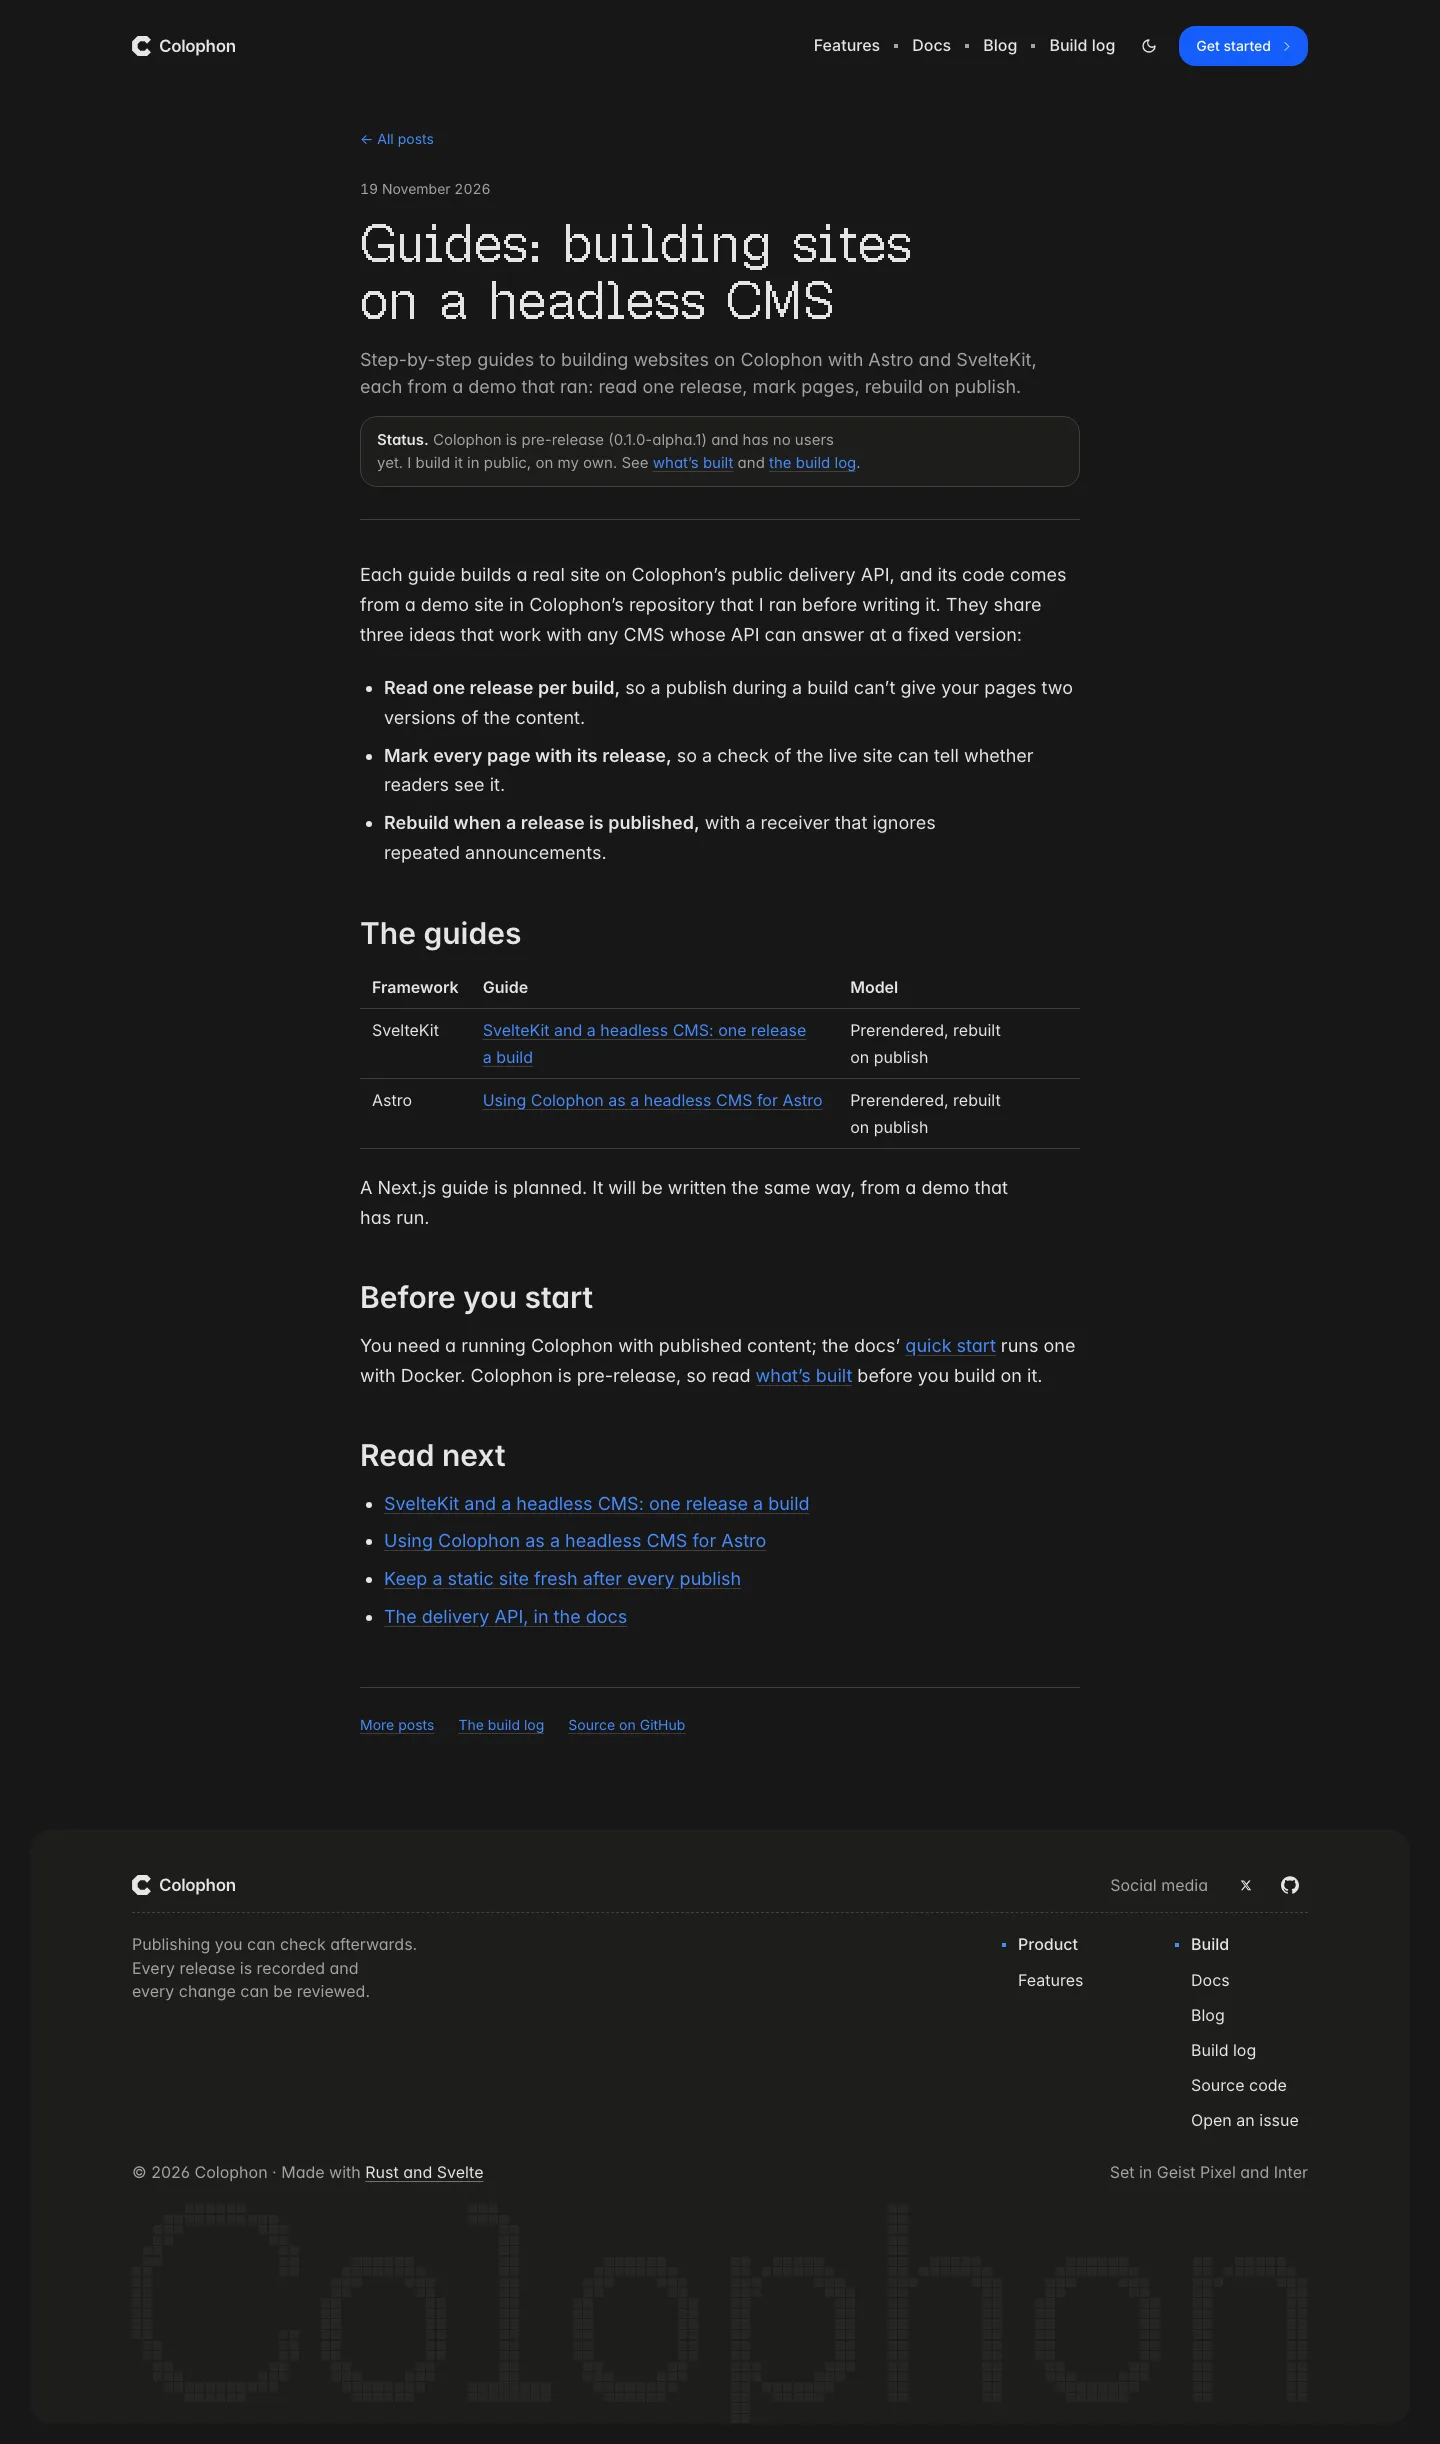
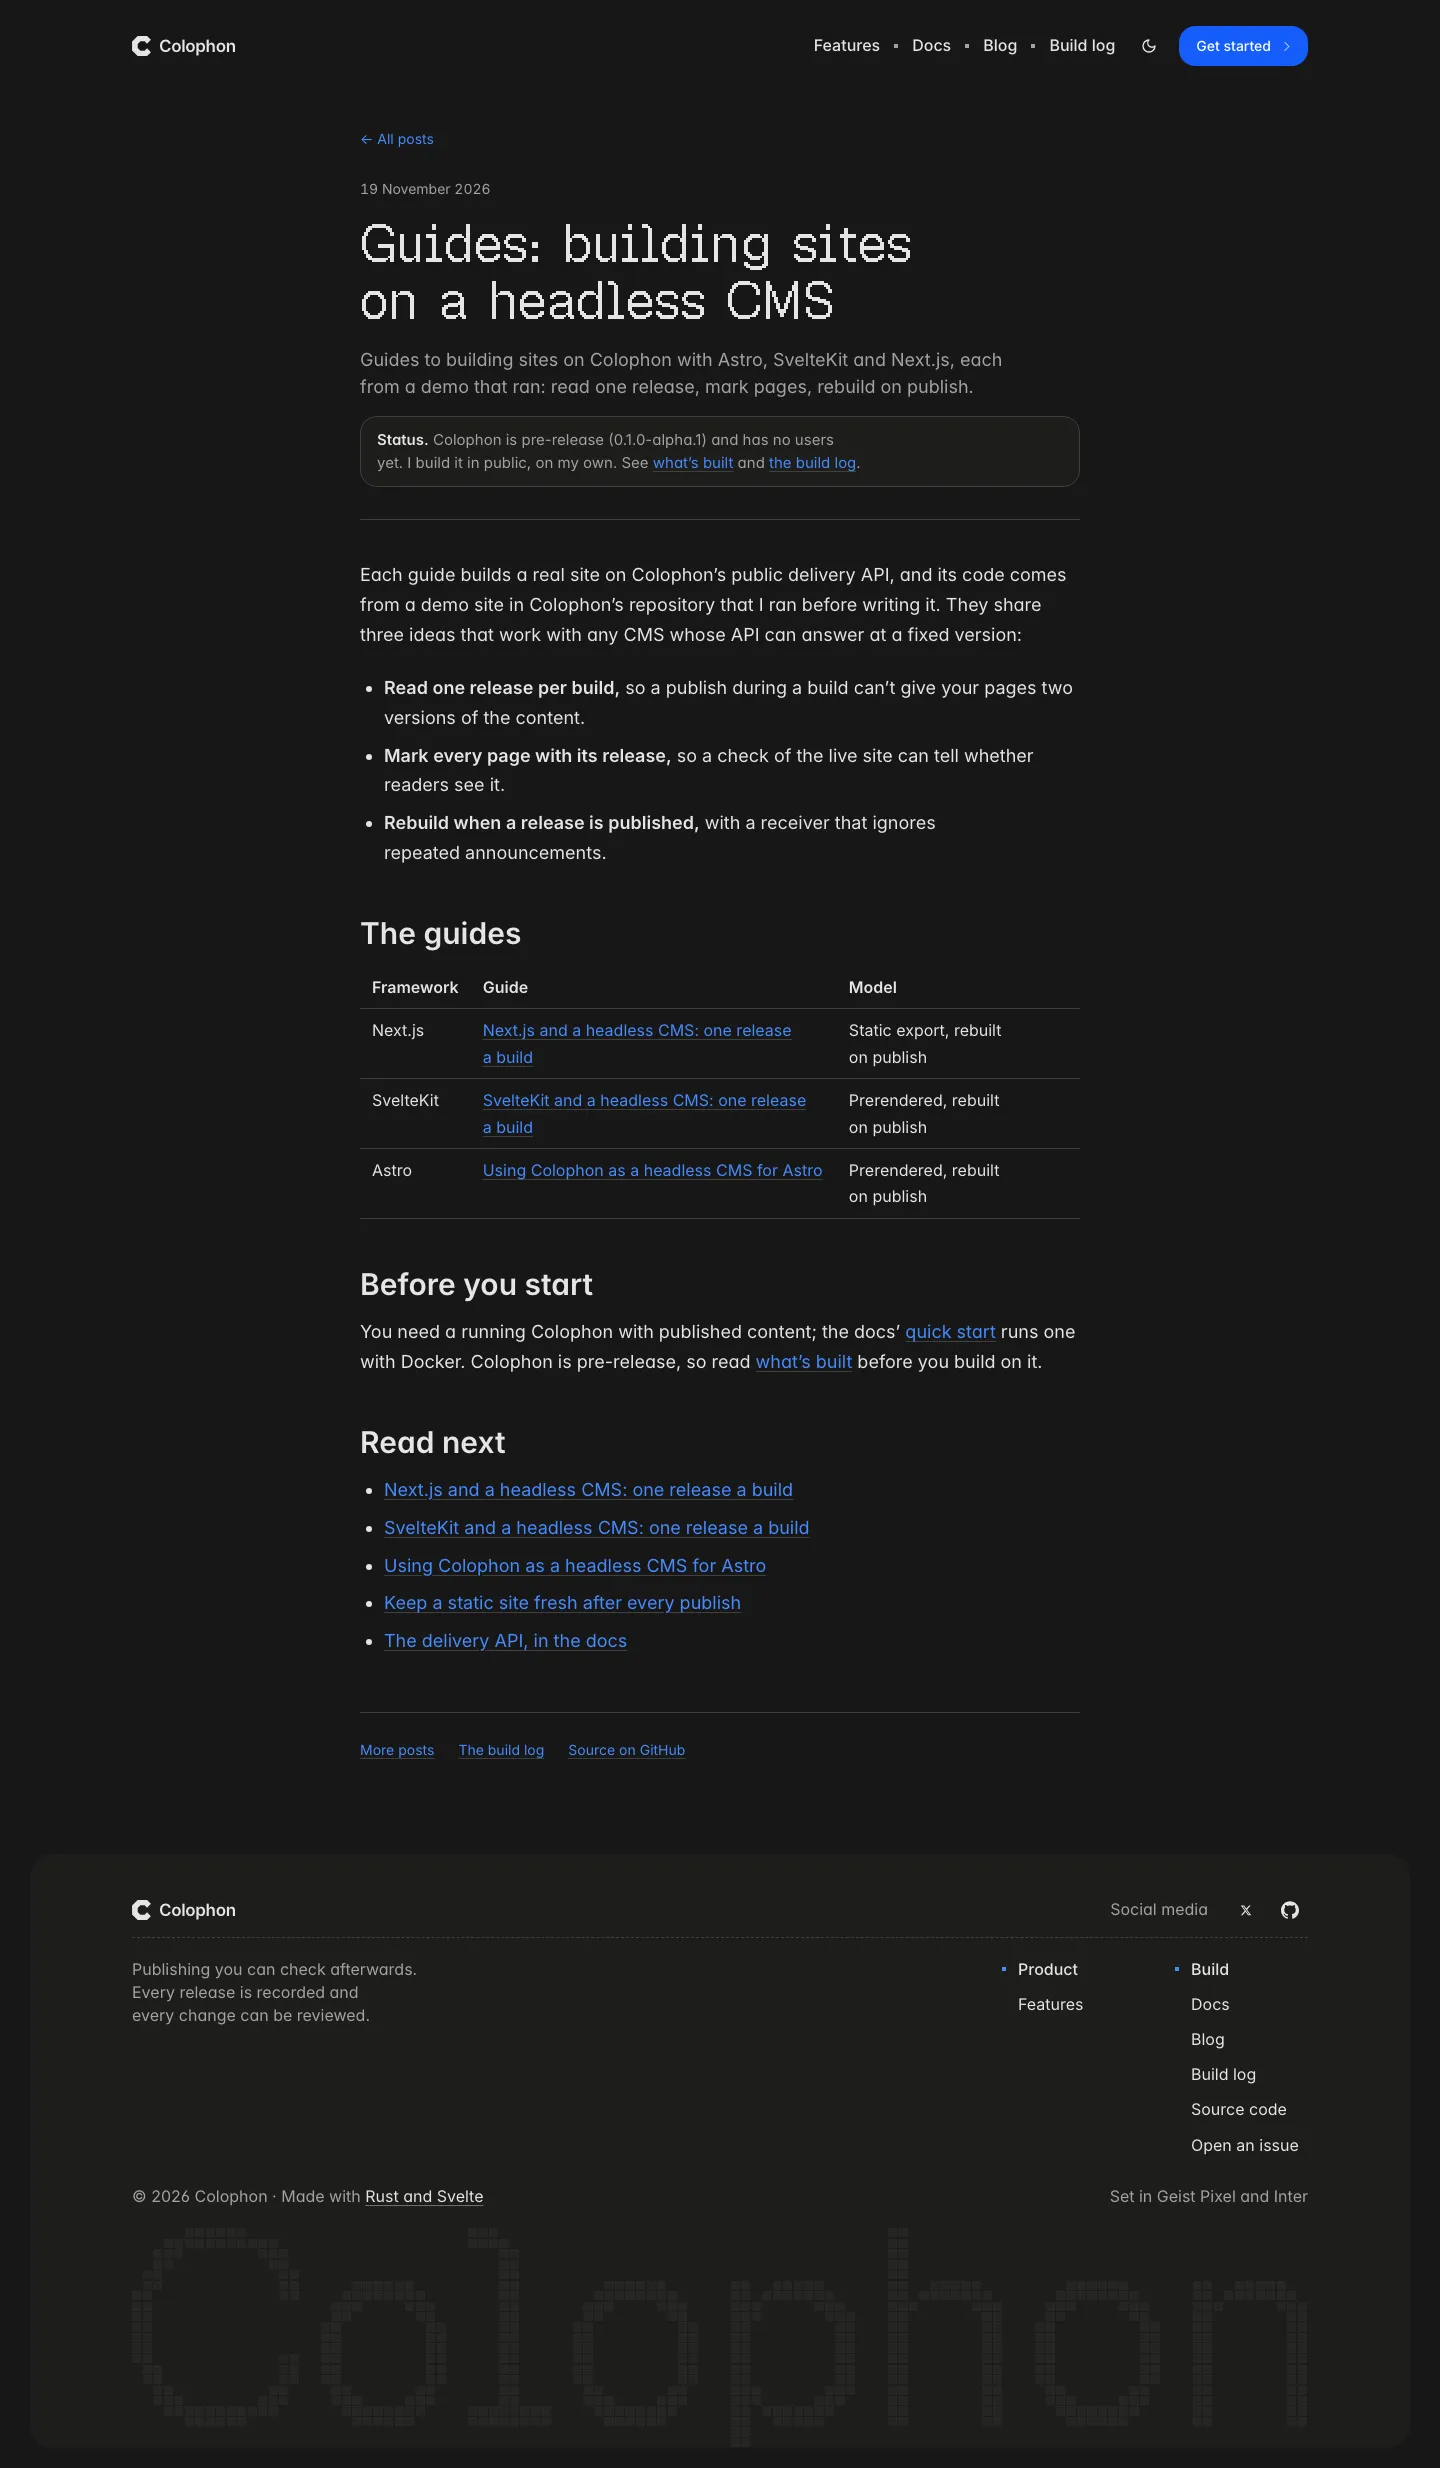
Guides: Next.js and a headless CMS, from the D-220a demo; the hub lists all three frameworks
- /guides/nextjs-headless-cms/: pin one release before `next build` so all of Next's build workers read it,
  refuse an answer from any other release, mark every page through Next's metadata, rebuild on publish. Every
  code block is quoted from colophon-cms apps/sites/nextjs; the run's numbers (5 workers, 13 pages marked 1,
  then 2 after a publish) are from 19 November 2026. Says what isn't covered: revalidation, rich text.
- /guides/ lists Next.js, SvelteKit and Astro; the Next.js guide is linked from the SvelteKit guide and the
  static-site use case.
- Depends on colophon-cms D-220 and D-220a reaching main (the guides link to the demos' source there).

diff --git a/src/content/pages/nextjs-headless-cms.md b/src/content/pages/nextjs-headless-cms.md
@@ -1,0 +1,162 @@
+---
+kind: guide
+title: "Next.js and a headless CMS: one release a build"
+description: "Statically export a Next.js site from a headless CMS without mixing two versions of your content across build workers: pin a release before the build."
+targetQuery: "next.js headless cms static export"
+pubDate: 2026-11-19
+status: "The code below is from the Next.js demo site in Colophon's repository, run against Colophon on 19 November 2026."
+related:
+  - href: /guides/
+    text: "Guides: building sites on a headless CMS"
+  - href: /guides/sveltekit-headless-cms/
+    text: "SvelteKit and a headless CMS: one release a build"
+  - href: /use-cases/static-site-fresh-after-publish/
+    text: "Keep a static site fresh after every publish"
+  - href: /blog/website-not-updating-after-publish/
+    text: "Why your site shows old content after publishing"
+  - href: https://docs.colophon.404human.dev/api/delivery/
+    text: "The delivery API, in the docs"
+faq:
+  - q: "Why can't I just remember the release in a module variable?"
+    a: "Because Next.js renders pages in several worker processes, and each has its own memory. In the run, the build used 5 workers. A release learned in one isn't seen by the others, so a publish during the build could give different workers different releases. A file written once before the build is read by all of them."
+  - q: "Does this work with on-demand revalidation instead of a static export?"
+    a: "The reads work the same way: learn a release, read every query of that render at it. This guide covers the static export, rebuilt on publish; it doesn't cover revalidation, which depends on your host."
+  - q: "How do I render rich text?"
+    a: "Colophon stores rich text as validated JSON, not HTML, and its renderer isn't published to npm yet. The demo leaves the rich-text field out; outside the repository you walk the JSON yourself or render only the fields you need."
+---
+
+A Next.js static export builds every page ahead of time. If someone publishes while that build runs, some pages
+get the old content and some the new, and the site you deploy is a version that never existed. Next.js makes this
+easier to hit than most, because it renders pages in several worker processes at once. This guide builds a small
+recipe site where all of those workers read the same release, every page says which release it shows, and a
+publish triggers the next build.
+
+The code is from the Next.js demo site in Colophon's repository
+([`apps/sites/nextjs`](https://github.com/akira-shirase-oss/colophon-cms/tree/main/apps/sites/nextjs)), run
+against a Colophon on 19 November 2026. The SvelteKit version of the same idea is in
+[SvelteKit and a headless CMS](/guides/sveltekit-headless-cms/); this page focuses on what Next.js changes.
+
+## What you need
+
+- A Colophon with published content. The [quick start](https://docs.colophon.404human.dev/quick-start/) runs one
+  with Docker. You need its address, your project's id and a collection; here the collection is `recipes`.
+- Next.js with `output: 'export'`, so every page is written as a file at build time.
+
+Every answer from Colophon's public delivery API names its release in the `Colophon-Generation` header, and
+`?generation=N` asks for the content exactly as release N published it. The SvelteKit guide shows both answers,
+from the same run.
+
+## Step 1: pin the release before `next build`
+
+The build runs a small script first. It asks for the newest release once and writes it to a file every worker can
+read (`scripts/pin-release.mjs`, abridged to the part that pins):
+
+```js
+const site = connection();
+if (site === null) {
+	console.log('pin-release: nothing seeded; building the "seed first" page');
+} else {
+	const url = `${site.api}/content/v1/${site.project}/${site.environment}/recipes?limit=1`;
+	const response = await fetch(url, { headers: { accept: 'application/json' }, signal: AbortSignal.timeout(10_000) });
+	if (!response.ok) throw new Error(`GET ${new URL(url).pathname}: HTTP ${response.status}`);
+	const generation = Number(response.headers.get('colophon-generation'));
+	if (!Number.isInteger(generation) || generation < 1) throw new Error('the delivery API named no release');
+	writeFileSync(out, JSON.stringify({ site, generation }) + '\n');
+	console.log(`pin-release: this build reads release ${generation}`);
+}
+```
+
+`connection()` reads your Colophon's address and project from the environment. The package script runs it before
+the build:
+
+```json
+"build": "node scripts/pin-release.mjs && next build && node scripts/place-output.mjs"
+```
+
+In the run, the output read `pin-release: this build reads release 1`, then Next reported
+`Generating static pages using 5 workers`.
+
+## Step 2: every worker reads the pinned release
+
+`lib/colophon.ts` reads the file. Every worker gets the same answer:
+
+```ts
+/** The release this build reads, as scripts/pin-release.mjs wrote it, or null when nothing is seeded. */
+export function buildRelease(): { site: Site; generation: number } | null {
+	try {
+		return JSON.parse(readFileSync(join(process.cwd(), '.release.json'), 'utf8'));
+	} catch {
+		return null;
+	}
+}
+```
+
+Every read then asks for that release, follows the cursor, and refuses an answer from any other release, exactly
+as in the SvelteKit guide:
+
+```ts
+const answered = Number(response.headers.get('colophon-generation'));
+if (answered !== generation) throw new Error(`asked for release ${generation}, got ${answered}`);
+```
+
+## Step 3: one page per entry, at that release
+
+`app/recipes/[slug]/page.tsx` tells Next which pages to export:
+
+```tsx
+// Only the recipes published at the build's release exist; any other path is a 404.
+export const dynamicParams = false;
+
+// Which recipe pages to export: one per published recipe, at the build's release. Before seeding there are none,
+// and a static export needs at least one, so the build makes a single placeholder page.
+export async function generateStaticParams() {
+	const pinned = buildRelease();
+	if (!pinned) return [{ slug: 'not-seeded' }];
+	const recipes = await entriesAt(pinned.site, 'recipes', pinned.generation);
+	return recipes.map((r) => ({ slug: r.content.slug ?? r.id }));
+}
+```
+
+## Step 4: mark every page with its release
+
+The root layout puts the release in every page's head through Next's metadata (`app/layout.tsx`):
+
+```tsx
+// The release this page was built from, as <meta name="colophon-generation">: a Colophon site check reads it to
+// verify a release reached the site.
+export function generateMetadata(): Metadata {
+	const pinned = buildRelease();
+	return {
+		title: 'Butter & Thyme',
+		...(pinned ? { other: { 'colophon-generation': String(pinned.generation) } } : {})
+	};
+}
+```
+
+In the run, release 1 exported 13 pages, the 404 pages included, and every one was marked `1`.
+
+## Step 5: rebuild when a release is published
+
+Point a Colophon website connection at your host's build hook, and drop repeated announcements by their stable
+key. In the run, publishing a change made release 2, and the rebuild read `pin-release: this build reads
+release 2` and marked all 13 pages `2`. The receiver pattern is in
+[keep a static site fresh after every publish](/use-cases/static-site-fresh-after-publish/).
+
+## Check it yourself
+
+- After a build, every exported page should carry the same `colophon-generation`.
+- Publish during a slow build: the build either finishes at the release it pinned or stops on the refusal; it
+  never mixes two.
+- Delete `.release.json` between builds. Each build should write a fresh one, never reuse an old release.
+
+## When not to use this
+
+If pages must change the moment content does, a static export is the wrong model; render per request instead.
+This guide doesn't cover Next's revalidation, which depends on where you host.
+
+## What to know before choosing Colophon
+
+- **It's pre-release.** The first version, 0.1.0-alpha.1, is tagged, and its npm packages, the rich-text renderer
+  included, aren't published yet.
+- **Webhooks aren't signed yet.** Put a long random secret in the build hook's address.
+- **The public delivery API has no language parameter yet.**

diff --git a/src/content/pages/guides.md b/src/content/pages/guides.md
@@ -1,10 +1,12 @@
 ---
 kind: hub
 title: "Guides: building sites on a headless CMS"
-description: "Step-by-step guides to building websites on Colophon with Astro and SvelteKit, each from a demo that ran: read one release, mark pages, rebuild on publish."
+description: "Guides to building sites on Colophon with Astro, SvelteKit and Next.js, each from a demo that ran: read one release, mark pages, rebuild on publish."
 targetQuery: "headless cms astro sveltekit guide"
 pubDate: 2026-11-19
 related:
+  - href: /guides/nextjs-headless-cms/
+    text: "Next.js and a headless CMS: one release a build"
   - href: /guides/sveltekit-headless-cms/
     text: "SvelteKit and a headless CMS: one release a build"
   - href: /blog/astro-headless-cms/
@@ -27,10 +29,9 @@ answer at a fixed version:
 
 | Framework | Guide | Model |
 |---|---|---|
+| Next.js | [Next.js and a headless CMS: one release a build](/guides/nextjs-headless-cms/) | Static export, rebuilt on publish |
 | SvelteKit | [SvelteKit and a headless CMS: one release a build](/guides/sveltekit-headless-cms/) | Prerendered, rebuilt on publish |
 | Astro | [Using Colophon as a headless CMS for Astro](/blog/astro-headless-cms/) | Prerendered, rebuilt on publish |
-
-A Next.js guide is planned. It will be written the same way, from a demo that has run.
 
 ## Before you start
 

diff --git a/src/content/pages/sveltekit-headless-cms.md b/src/content/pages/sveltekit-headless-cms.md
@@ -6,6 +6,8 @@ targetQuery: "sveltekit headless cms"
 pubDate: 2026-11-19
 status: "The code below is from the SvelteKit demo site in Colophon's repository, run against Colophon on 19 November 2026."
 related:
+  - href: /guides/nextjs-headless-cms/
+    text: "Next.js and a headless CMS: one release a build"
   - href: /guides/
     text: "Guides: building sites on Colophon"
   - href: /blog/astro-headless-cms/

diff --git a/src/content/pages/static-site-fresh-after-publish.md b/src/content/pages/static-site-fresh-after-publish.md
@@ -5,6 +5,8 @@ description: "Rebuilding a static site when CMS content changes: at-least-once w
 targetQuery: "rebuild static site on cms publish webhook"
 pubDate: 2026-11-19
 related:
+  - href: /guides/nextjs-headless-cms/
+    text: "Next.js and a headless CMS: one release a build"
   - href: /guides/
     text: "Guides: building sites on a headless CMS"
   - href: /guides/sveltekit-headless-cms/
